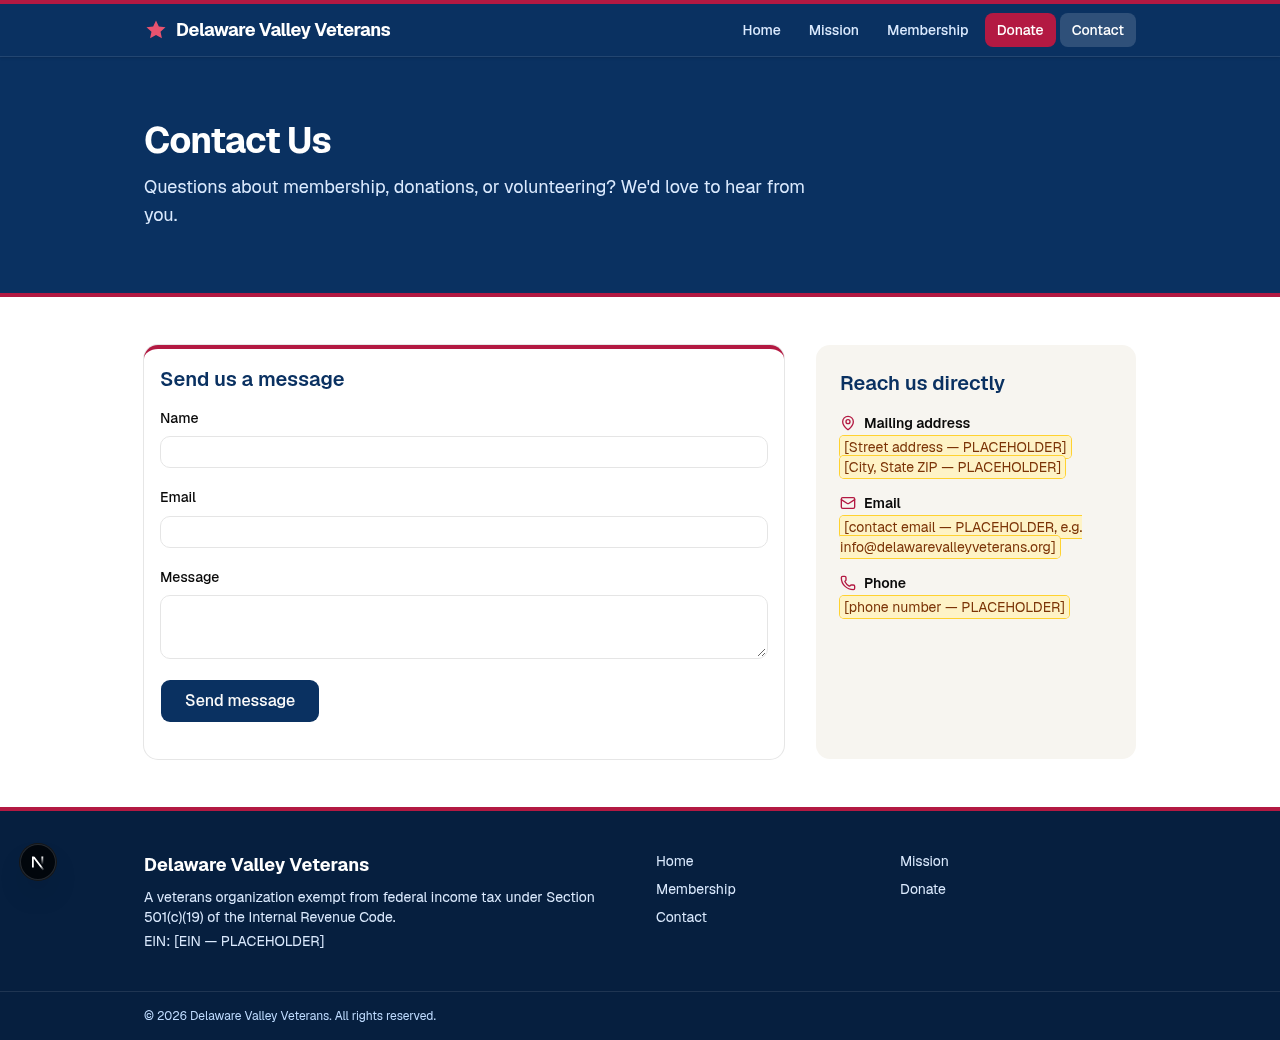
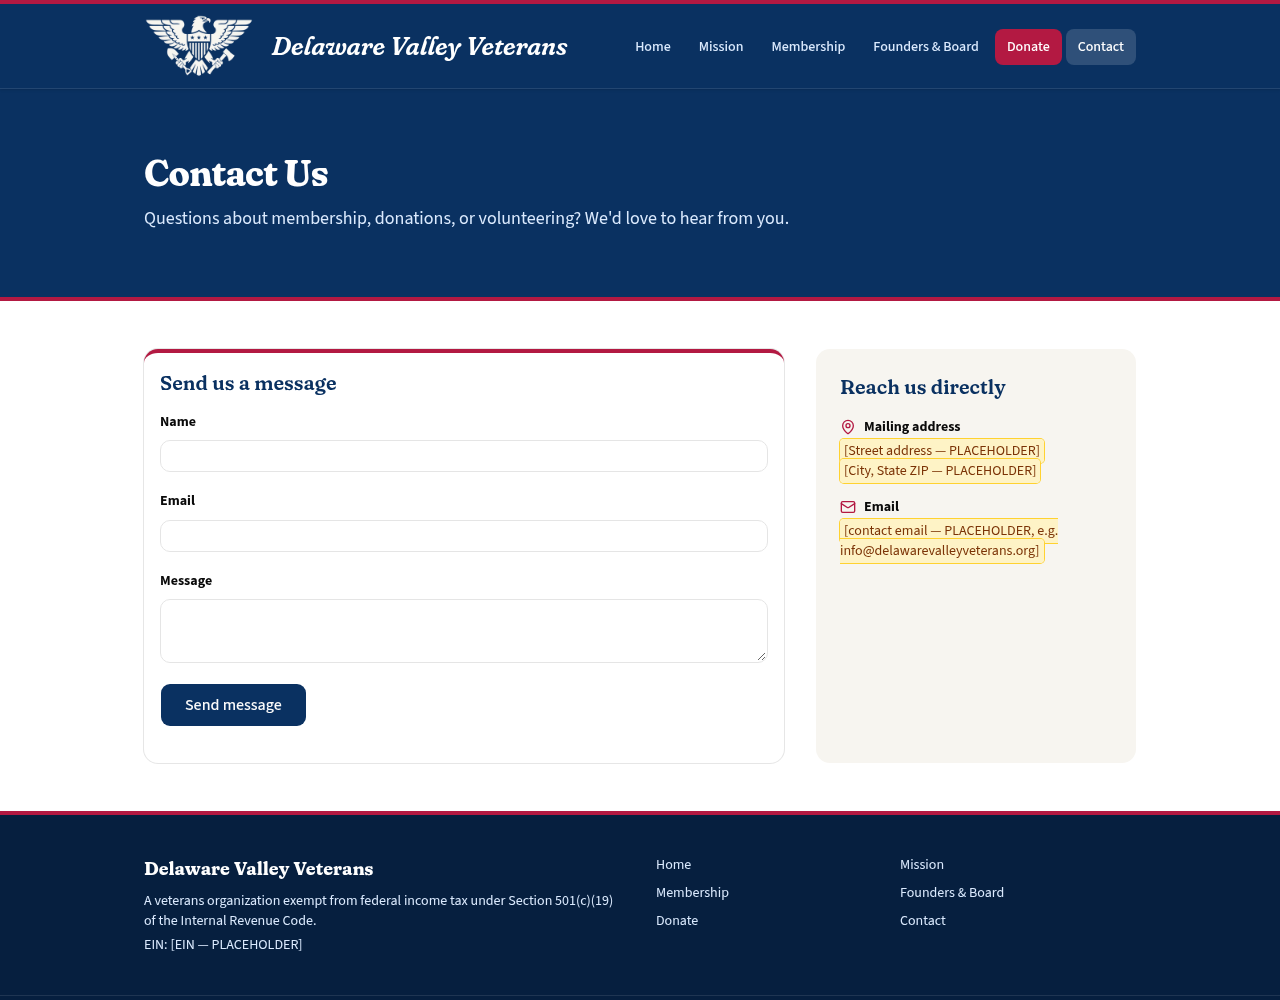
Apply Farmhouse Porch typography (Fraunces + Source Sans 3)

diff --git a/src/app/layout.tsx b/src/app/layout.tsx
@@ -1,35 +1,29 @@
 import type { Metadata } from "next";
-import { Atkinson_Hyperlegible, Geist, Geist_Mono, Pinyon_Script } from "next/font/google";
+import { Fraunces, Source_Sans_3 } from "next/font/google";
 import { SiteHeader } from "@/components/site/site-header";
 import { SiteFooter } from "@/components/site/site-footer";
 import { site } from "@/lib/site";
 import "./globals.css";
 
-const geistSans = Geist({
-  variable: "--font-sans",
+// "Farmhouse Porch" typography.
+// Body, nav and small labels: Source Sans 3, a clear humanist sans (distinct
+// "ai" vs "au" shapes, so "Mailing address" can't be misread).
+const sansFont = Source_Sans_3({
+  variable: "--font-source-sans",
   subsets: ["latin"],
-});
-
-// Atkinson Hyperlegible (Braille Institute) has distinct I / l / 1 shapes, so
-// small labels like "Mailing address" can't be misread as "ll" or a capital I.
-const labelFont = Atkinson_Hyperlegible({
-  variable: "--font-atkinson",
-  subsets: ["latin"],
-  weight: ["400", "700"],
-});
-
-// Pinyon Script: a formal roundhand/copperplate script in the style of
-// 18th-century American penmanship. Used only for the header site title.
-const scriptFont = Pinyon_Script({
-  variable: "--font-pinyon",
-  subsets: ["latin"],
-  weight: "400",
+  weight: ["400", "500", "600", "700"],
   display: "swap",
 });
 
-const geistMono = Geist_Mono({
-  variable: "--font-geist-mono",
+// Headings and the italic header title: Fraunces, a soft old-style serif.
+// Variable font with the SOFT / WONK / opsz axes; settings applied in CSS.
+const headingFont = Fraunces({
+  variable: "--font-fraunces",
   subsets: ["latin"],
+  weight: "variable",
+  style: ["normal", "italic"],
+  axes: ["SOFT", "WONK", "opsz"],
+  display: "swap",
 });
 
 export const metadata: Metadata = {
@@ -45,7 +39,7 @@ export default function RootLayout({ children }: LayoutProps<"/">) {
   return (
     <html
       lang="en"
-      className={`${geistSans.variable} ${geistMono.variable} ${labelFont.variable} ${scriptFont.variable} h-full antialiased`}
+      className={`${sansFont.variable} ${headingFont.variable} h-full antialiased`}
     >
       <body className="flex min-h-full flex-col">
         <a

diff --git a/src/app/globals.css b/src/app/globals.css
@@ -12,13 +12,13 @@
   --color-brand-cream: var(--brand-cream);
   --color-background: var(--background);
   --color-foreground: var(--foreground);
-  --font-sans: var(--font-sans);
-  --font-mono: var(--font-geist-mono);
-  --font-heading: var(--font-sans);
-  /* Small labels: clearer letterforms (see layout.tsx) */
-  --font-label: var(--font-atkinson);
-  /* Header site title: colonial-style script */
-  --font-script: var(--font-pinyon);
+  /* "Farmhouse Porch" typography (see layout.tsx) */
+  --font-sans: var(--font-source-sans);
+  --font-heading: var(--font-fraunces);
+  /* Small labels: same clear sans as body */
+  --font-label: var(--font-source-sans);
+  /* Header site title: Fraunces italic */
+  --font-title: var(--font-fraunces);
   --color-sidebar-ring: var(--sidebar-ring);
   --color-sidebar-border: var(--sidebar-border);
   --color-sidebar-accent-foreground: var(--sidebar-accent-foreground);
@@ -141,5 +141,10 @@
   }
   html {
     @apply font-sans;
+  }
+  /* Fraunces: soft, slightly "wonky" farmhouse-sign shapes (opsz stays auto) */
+  .font-heading,
+  .font-title {
+    font-variation-settings: "SOFT" 100, "WONK" 1;
   }
 }

diff --git a/src/components/site/site-header.tsx b/src/components/site/site-header.tsx
@@ -37,7 +37,7 @@ export function SiteHeader() {
               className="h-10 w-auto min-[400px]:h-[52px] sm:h-16"
             />
           </picture>
-          <span className="font-script whitespace-nowrap text-[1.3rem] leading-none min-[400px]:text-[1.5rem] tracking-[0.01em] [-webkit-text-stroke:0.4px_currentColor] [paint-order:stroke_fill] [text-shadow:0_0_0.4px_currentColor,0_1px_1px_rgb(0_0_0/0.35)] sm:text-[2rem]">{site.name}</span>
+          <span className="font-title whitespace-nowrap text-[1.1rem] leading-none font-semibold italic min-[400px]:text-[1.3rem] sm:text-[1.65rem] [font-variation-settings:'SOFT'_100,'WONK'_1,'opsz'_72]">{site.name}</span>
         </Link>
 
         <nav aria-label="Main" className="hidden lg:block">

diff --git a/src/app/page.tsx b/src/app/page.tsx
@@ -67,7 +67,7 @@ export default function Home() {
             <StarMark className="size-4 text-brand-red-light" />
             A {site.taxStatus} veterans organization
           </p>
-          <h1 className="mt-4 max-w-2xl font-heading text-4xl font-bold tracking-tight sm:text-5xl">
+          <h1 className="mt-4 max-w-[36rem] font-heading text-[2.3rem] leading-[1.05] font-bold tracking-[-0.01em] [font-variation-settings:'SOFT'_100,'WONK'_1,'opsz'_96] sm:text-[3.1rem]">
             Serving those who served in the Delaware Valley
           </h1>
           <p className="mt-6 max-w-xl text-lg text-blue-100">
